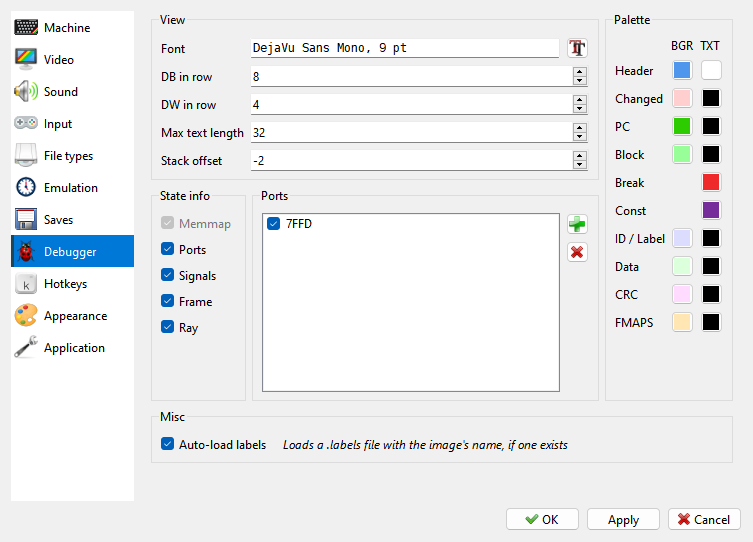
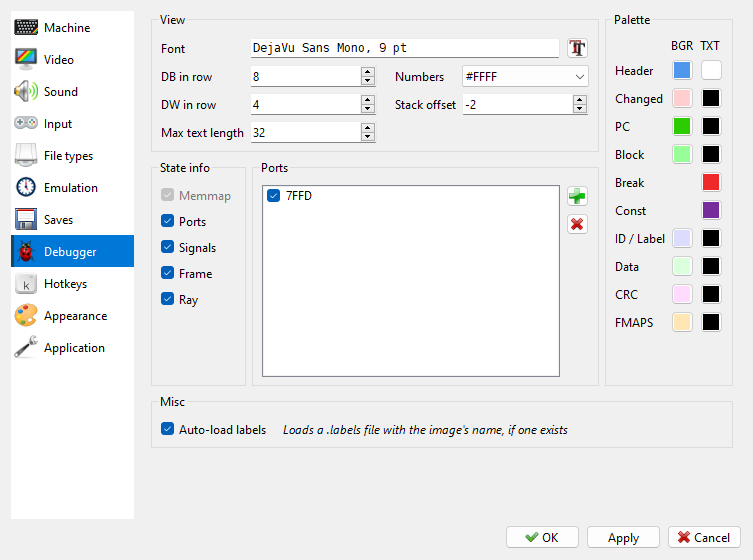
manual: Hex or decimal in the Disasm chapter - the four forms, the button and Ctrl+Shift+H, the typing rule and its sign, the tip; the other panels, Numbers in Options, the conditions' numbers; the Debugger's pictures again

diff --git a/docs/manual/debugger-code.md b/docs/manual/debugger-code.md
@@ -33,8 +33,9 @@ Each row has four columns:
 | Command | the instruction, or `DB`, `DW` for data |
 | (last) | on the PC row only: the value in memory, or an arrow |
 
-Numbers are hex and start with `#`, as in `LD HL,#5C00`. Where an address has a name, the
-name is shown instead of the number: `CALL print_score`. An address a few bytes into a
+Numbers are hex and start with `#`, as in `LD HL,#5C00`, unless you pick another form: see
+[Hex or decimal](#hex-or-decimal). Where an address has a name, the name is shown instead
+of the number: `CALL print_score`. An address a few bytes into a
 named place is shown as the name plus the offset: `LD A,(table + 2)`.
 
 Some rows are not instructions:
@@ -65,6 +66,74 @@ The last column says more about the instruction at PC:
 - for a conditional jump, call or return whose condition is met, an arrow: down when the
   jump goes to a higher address, up when it goes to a lower one. The row the jump goes to,
   if that row is in view, gets an arrow too.
+
+## Hex or decimal
+
+```{index} hex or decimal, decimal numbers, Numbers (Debugger), Decimal numbers
+```
+
+Addresses, and the numbers in the commands of the listing, are written in one of four
+forms, picked by **Numbers** on the **Debugger** page of **Options**:
+
+| Form | An address | A byte |
+|---|---|---|
+| `#FFFF` | `#8000` | `#C9` |
+| `$FFFF` | `$8000` | `$C9` |
+| `FFFFh` | `8000h` | `C9h` |
+| `65535` | `32768` | `201` |
+
+The button at the right of the toolbar shows the form, as `#FF` or `255`. A click on it
+switches between hex in the form picked and decimal, and so does Ctrl+Shift+H
+(**Decimal numbers** in [Debugger keys](hotkeys.md#debugger-keys)). The choice is kept
+between sessions.
+
+An address takes five characters in any form, `00056` in decimal, so the columns stay
+put. The numbers in commands are not padded: `LD A,201`, `JR 13986`, `RST 56`.
+
+The addresses in the other panels follow the switch too: **DUMP**, **REG-DUMP**, the
+disk dump of the **FDD** panel, **STACK** (its words as well), the **Breakpoints** and
+**Labels List** lists, the **Watcher**, the **Heat map**, and the address and length
+fields of **Save dump**, **Load dump**, **Fill...**, **Sprite scanner** and the **Screen**
+panel. A page number in front of an address stays hex, as **MEMMAP** shows it:
+`05:#0123` or `05:00291`. The bytes of the listing and the dumps, the registers, the ports
+and the panels of the hardware stay hex.
+
+### Typing a number
+
+```{index} number; typing, hex sign
+```
+
+The fields that take an address read a number the same way, whatever the form:
+
+| You type | It is |
+|---|---|
+| `#8000`, `$8000`, `0x8000`, `8000h` | hex |
+| `32768` | decimal |
+| `0100` | decimal 100: a leading zero means nothing |
+| a name | a label |
+
+In a hex form a field opens with its address in that form, `#8000`, and the sign stays
+while you type over the digits: select all and type `C000`, and it is `#C000`. Backspace
+or Delete on the sign itself takes it off, and the number you type then is decimal. In an
+empty field the sign comes with the first digit. A first character that is not a hex
+digit - a label, `.HL`, the `;` of a comment - replaces the lot. In decimal nothing is
+added: type `#` or `$` first for hex.
+
+The fields of **Save dump**, **Load dump**, **Fill...**, **Sprite scanner** and the
+**Screen** panel keep to their digits, and the sign is drawn beside them. Backspace in
+front of the digits switches such a field to decimal, `#` or `$` back to hex, and X either
+way.
+
+While you type an address, a tip under the field shows what it is: the number in decimal,
+hex and binary, then where it is in memory now and its label:
+
+```
+23732 -> #5CB4, 0101 1100 1011 0100
+RAM:05:#1CB4  P_RAMT
+```
+
+Rest the mouse on an address of the listing, or on a number or a label in a command, for
+the same tip.
 
 ## Moving around
 
@@ -110,13 +179,15 @@ The listing scrolls so that the address lands on that row. An address can be:
 
 | You type | It means |
 |---|---|
-| `8000`, `#8000`, `0x8000` | a hex address |
+| `#8000`, `$8000`, `0x8000`, `8000h` | a hex address |
+| `32768` | a decimal address |
 | `print_score` | the address of a label |
 | `@print_score` | the label's address, and never a new label |
 | `.HL` | the address a register holds: `.PC`, `.SP`, `.IX` and so on |
 
-A name that is not a label yet makes a new label instead: see
-[Labels and comments](#labels-and-comments).
+The cell opens with the address in the form the listing shows; how the sign behaves while
+you type is in [Typing a number](#typing-a-number). A name that is not a label yet makes
+a new label instead: see [Labels and comments](#labels-and-comments).
 
 ## Editing
 
@@ -131,7 +202,9 @@ and `05` from the address of the row on.
 
 **Command** - type an instruction, such as `ld a,5` or `call #8010`. It is assembled and
 written at the address of the row, and the cursor goes down to the next row, ready for
-the next instruction. Write hex numbers as `#8010` or `0x8010`: a plain number is decimal.
+the next instruction. Write hex numbers with a sign - `#8010`, `$8010`, `0x8010` or
+`8010h`: a plain number is decimal. A command opens in the form the listing shows, so it
+can be changed as it stands.
 Labels can be used in the instruction, alone or in a sum: `jp loop`, `ld hl,table+2`,
 `ld a,(ix+offset)`. An instruction that cannot be assembled writes nothing, though the
 cursor still moves down: check the row before you go on.
@@ -343,6 +416,7 @@ The marks, the labels and the comments are kept together in a memory map file: s
 | {icon}`arrGreen` **Trace** | running the program step by step, see [Debugger](debugger.md) |
 | {icon}`other` **Tools** | **Search**, **Fill...**, **Sprite scanner** (see [DUMP panel](debugger-memory.md)), **Keyboard**, **Watcher** |
 | {icon}`settings` **Options** | how the listing looks and works, see below |
+| `#FF` or `255` | hex or decimal numbers, see [Hex or decimal](#hex-or-decimal) |
 | {icon}`refresh` (circular arrows) | **Reload snapshot & labels** |
 | {icon}`floppy` (floppy disk) | **Disasm to file**, **Load dump**, **Save dump**, **Load map**, **Save map** |
 

diff --git a/docs/manual/debugger-breakpoints.md b/docs/manual/debugger-breakpoints.md
@@ -193,17 +193,20 @@ is what the span has measured so far.
 ```{index} breakpoint; address
 ```
 
-The **Address** fields take a hex number, with or without `#`, `$` or `0x` in front, or a
-label name. A label takes priority over a number written the same way: if there is a label
-`BEEF`, `BEEF` is that label and `#BEEF` the number.
+The **Address** fields take a number - hex with a sign, `#8000`, `$8000`, `0x8000` or
+`8000h`, decimal without one, `32768` - or a label name (see
+[Typing a number](debugger-code.md#typing-a-number)). A label takes priority over a number
+written the same way: if there is a label `BEEFh`, `BEEFh` is that label and `#BEEF` the
+number. A port and its mask are hex, with no sign.
 
 ![A RAM cell in the editor](images/dbg-brk-editor-cell.png)
 
 A cell of RAM, ROM or the slot can be given in four ways:
 
 - an offset in the page, `0000` to `3FFF` (`1FFF` for an 8K page), with the page in **Page**;
-- the page and the offset together, `05:1800`. The page is hex here, while **Page** counts
-  in decimal. Memory with a name of its own takes the name instead: `ROM0:0038`, `DIV3:0010`;
+- the page and the offset together, `05:#1800`. The page is hex here, while **Page** counts
+  in decimal; the offset is a number as above, and a sign in front of the page counts for it
+  too: `#05:1800`. Memory with a name of its own takes the name instead: `ROM0:0038`, `DIV3:0010`;
 - a CPU address past the page size, such as `5800`: the cell is the one mapped there now,
   and **Page** changes to that cell's page. This works when the memory there is of the kind
   that **Type** names; otherwise the address is taken as an offset in **Page**;
@@ -291,8 +294,7 @@ to be 0. A word in memory is read low byte first, as the Z80 reads it.
 | `A`, `HL`, `BC'`... | a CPU register, see below |
 | a name | a label: its address |
 | `1234` | a decimal number |
-| `0x1234`, `#1234` | a hex number |
-| `0123` | an octal number: a leading zero, as in C |
+| `0x1234`, `#1234`, `$1234`, `1234h` | a hex number |
 | `'A'` | the code of a character |
 | `M(x)` | the byte at x |
 | `[x]` | the word at x |
@@ -304,11 +306,13 @@ second set (`A'`, `B'`...); the pairs `AF`, `BC`, `DE`, `HL`, `AF'`, `BC'`, `DE'
 `IFF1`, `IFF2`. Register names can be typed in either case; label names cannot.
 
 A name is looked up first as a register, then as one of the variables below, then as a
-label. So a label that has the name of a register cannot be reached by its name.
+label, and last as hex with an `h` behind, as `C9h`. So a label that has the name of a
+register cannot be reached by its name.
 
-A number without a prefix is decimal: `100` is a hundred, `0x100` and `#100` are 256,
-`0100` is 64. A bare `FF` is therefore not a number but a name, so hex always needs its
-prefix.
+A number without a sign is decimal: `100` is a hundred, `0x100`, `#100`, `$100` and `100h`
+are 256, and `0100` is a hundred too - a leading zero means nothing. A bare `FF` is
+therefore not a number but a name, so hex always needs its sign. The rule is the one the
+address fields have: see [Typing a number](debugger-code.md#typing-a-number).
 
 ### Variables
 

diff --git a/docs/manual/debugger-memory.md b/docs/manual/debugger-memory.md
@@ -24,7 +24,9 @@ save it to a file and load it back. Which memory pages the CPU sees is in the
 4. **Dump** - the address, the bytes in groups of four, and the same bytes as text.
 5. **Scrollbar** - drag it to move through memory.
 
-The title of the panel shows the address of the byte under the cursor: **DUMP | 00C000**.
+The title of the panel shows the address of the byte under the cursor: **DUMP | #C000**.
+The addresses are in the form picked for the Debugger: see
+[Hex or decimal](debugger-code.md#hex-or-decimal).
 
 In the text column a byte below 32 shows as a dot. **Auto** puts as many groups of four
 bytes on a row as the panel is wide enough for.
@@ -59,8 +61,9 @@ register holds.
 
 To go to an address, double-click the address of any row, or select it and press Enter, and
 type the address to go to. The dump scrolls so that the address lands on that row. An
-address can be hex (`8000`, `#8000`, `0x8000`), a label, or a register with a dot in front,
-as `.HL`. The labels are offered as you type, as in the listing (see
+address can be a number - hex with a sign, `#8000`, `$8000`, `0x8000` or `8000h`, or
+decimal without one, `32768` (see [Typing a number](debugger-code.md#typing-a-number)) -
+a label, or a register with a dot in front, as `.HL`. The labels are offered as you type, as in the listing (see
 [Labels offered as you type](debugger-code.md#labels-offered-as-you-type)).
 
 ### Editing
@@ -242,8 +245,8 @@ the **Disasm** toolbar. Each has a key of its own: see
 The window opens on what the **DUMP** panel shows: **CPU**, or the RAM, ROM or DIV page
 it is on.
 
-Fill in **Start** and **End**, or **Start** and **Length**, in hex: the third field is
-filled in by itself. With **CPU** they are addresses. With any other source they count
+Fill in **Start** and **End**, or **Start** and **Length**, in the Debugger's numbers (see
+[Hex or decimal](debugger-code.md#hex-or-decimal)): the third field is filled in by itself. With **CPU** they are addresses. With any other source they count
 from the start of the page, and may run on into the pages after it, up to the end of that
 memory. Picking another source sets them to one whole page; **Page** 0 with
 **Length** 20000 saves all the RAM of a 128K. Then pick from {icon}`save-as` **Save as...**:

diff --git a/docs/manual/options-debugger.md b/docs/manual/options-debugger.md
@@ -7,7 +7,7 @@
 
 The font, the colors and what the Debugger shows.
 
-```{index} Debugger; font, Debugger; colors, State info, DB in row, DW in row, Max text length
+```{index} Debugger; font, Debugger; colors, State info, DB in row, DW in row, Max text length, Numbers (Debugger)
 ```
 
 **View**:
@@ -17,6 +17,10 @@ The font, the colors and what the Debugger shows.
 - **DB in row**, **DW in row**, **Max text length** - how many bytes, words or characters
   one line of the listing holds when it shows data instead of code. See
   [Disasm panel](debugger-code.md).
+- **Numbers** - how addresses and the numbers of the listing are written: `#FFFF`,
+  `$FFFF`, `FFFFh` or decimal `65535`. The button on the listing's toolbar and
+  Ctrl+Shift+H switch between hex in the form picked here and decimal. See
+  [Hex or decimal](debugger-code.md#hex-or-decimal).
 - **Stack offset** - where the **STACK** panel starts, from -16 to 16 bytes from SP. See
   [STACK panel](debugger-stack.md).
 

diff --git a/docs/manual/debugger-heatmap.md b/docs/manual/debugger-heatmap.md
@@ -76,7 +76,9 @@ on a ZX Evolution, 2 MB on the Next - this shows at once where the program lives
 ## The readout
 
 Hold the mouse over a cell to see its address, the page it is in and the offset in that
-page - **#4000-#4003  RAM5 #0000** - and its counts: **Read:**, **Write:**, **Exec:**. Over
+page - **#4000-#4003  RAM5 #0000** - and its counts: **Read:**, **Write:**, **Exec:**. The
+addresses here and in the headings are written as the Debugger's are: see
+[Hex or decimal](debugger-code.md#hex-or-decimal). Over
 the heading of a strip, the counts are the page's. A byte's count stops at 4294967295 and
 then reads **max**; a page's counts go on. In the Debugger, double-click a cell and
 the listing goes there, if the CPU can see that memory now.

diff --git a/docs/manual/debugger-fdd.md b/docs/manual/debugger-fdd.md
@@ -17,7 +17,8 @@ gaps, the sector headers, the data and the checksums, byte by byte. It is on a t
 - {icon}`target` The target button - jumps to the drive, the track and the byte the head is
   at now.
 
-Each row starts with the track and the place on the track, in hex: `02:0040`. The byte
+Each row starts with the track, in hex, and the place on the track, in the form picked for
+the Debugger (see [Hex or decimal](debugger-code.md#hex-or-decimal)): `02:#0040`. The byte
 under the head is in bold. Sector headers are in the **ID / Label** color of the
 **Debugger** page of **Options**, sector data in the **Data** color and the checksums in
 the **CRC** color. With no disk in the drive every byte reads `FF`. The panel cannot be

diff --git a/docs/manual/debugger-stack.md b/docs/manual/debugger-stack.md
@@ -8,7 +8,9 @@
 Each line of the **STACK** panel is a word in memory, starting near the address SP holds.
 The shaded line is the word at SP, named by its address. The lines above and below it are
 named by their distance from SP: `-02:`, `+02:`, `+04:` and so on. The panel shows as
-many lines as fit in its height.
+many lines as fit in its height. The address and the words are written as the Debugger's
+addresses are, and the distances in the same base: see
+[Hex or decimal](debugger-code.md#hex-or-decimal).
 
 The two arrows at the top move the lines by a word. The first line can be from 16 bytes
 before SP to 16 bytes after it. Where the panel starts is the **Stack offset** on the **Debugger** page of **Options**:

diff --git a/docs/manual/debugger-watcher.md b/docs/manual/debugger-watcher.md
@@ -37,7 +37,8 @@ The **Watcher Editor** has:
   the field.
 
 {icon}`checkbox` **OK** accepts the watch only when the expression is right. The first row
-of a watch shows its type and expression, and its value as an address; the second row the
+of a watch shows its type and expression, and its value as an address, written as the
+Debugger's addresses are (see [Hex or decimal](debugger-code.md#hex-or-decimal)); the second row the
 13 bytes that start at that address. `??` means the expression cannot be worked out at the moment.
 
 On the Next, a label in a **CPU addr** watch follows MMU paging. If its page is not mapped,

diff --git a/docs/manual/hotkeys.md b/docs/manual/hotkeys.md
@@ -295,6 +295,7 @@ there too.
 | Save xmap | - | - |
 | Find pattern | Ctrl+F | Ctrl+F |
 | Switch labels | Ctrl+L | Ctrl+L |
+| Decimal numbers | Ctrl+Shift+H | Ctrl+Shift+H |
 | Show labels list | - | - |
 | Reload file | - | - |
 | Close | Esc | Esc |
